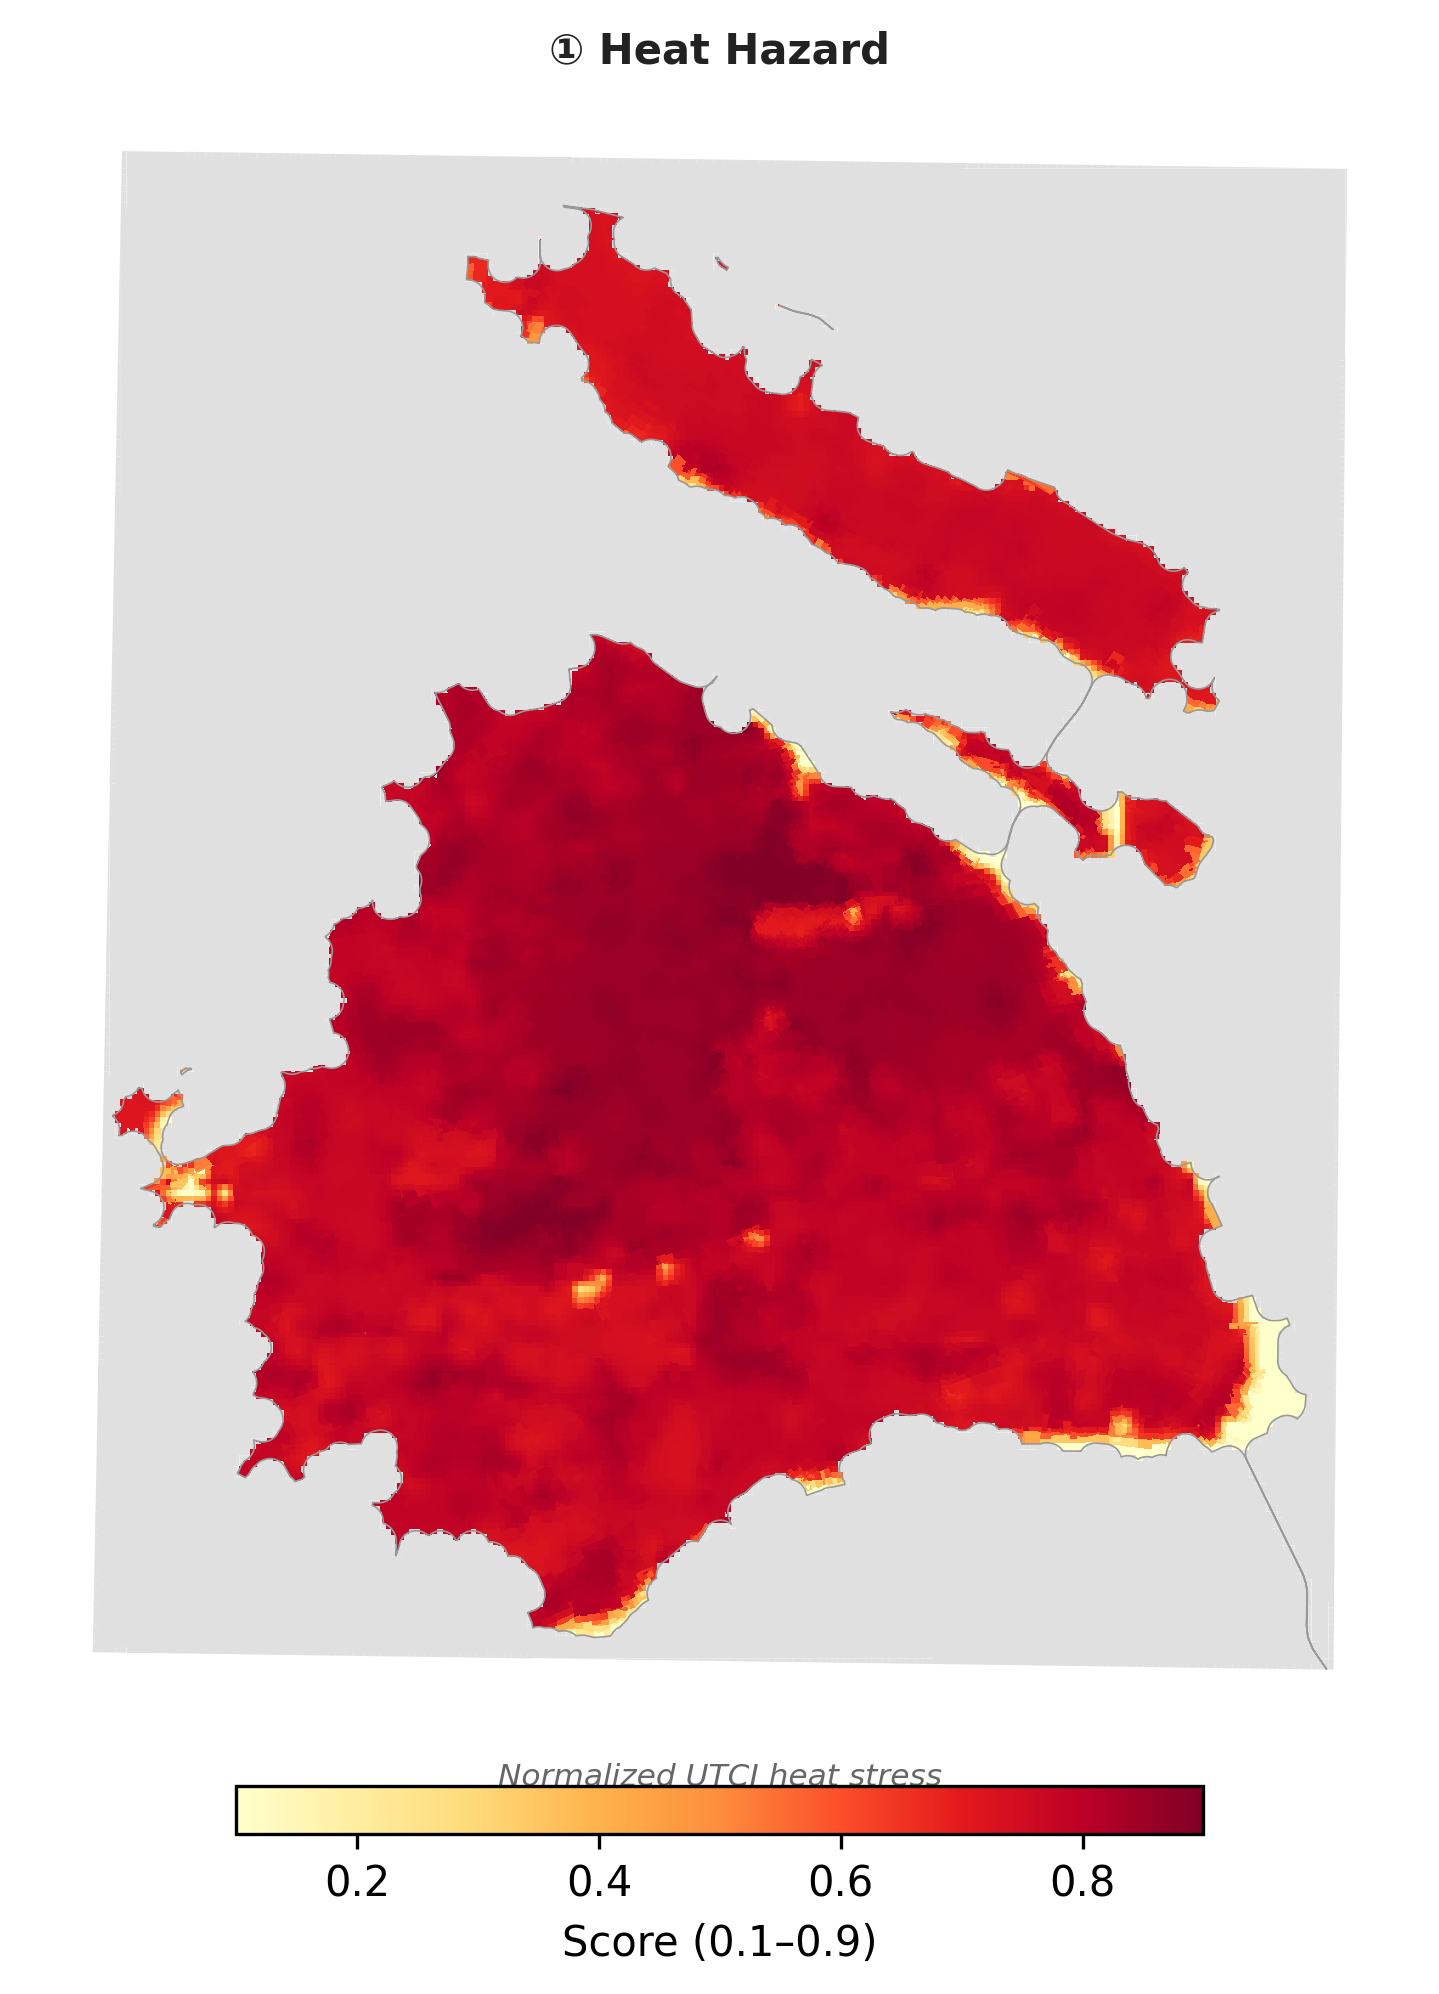
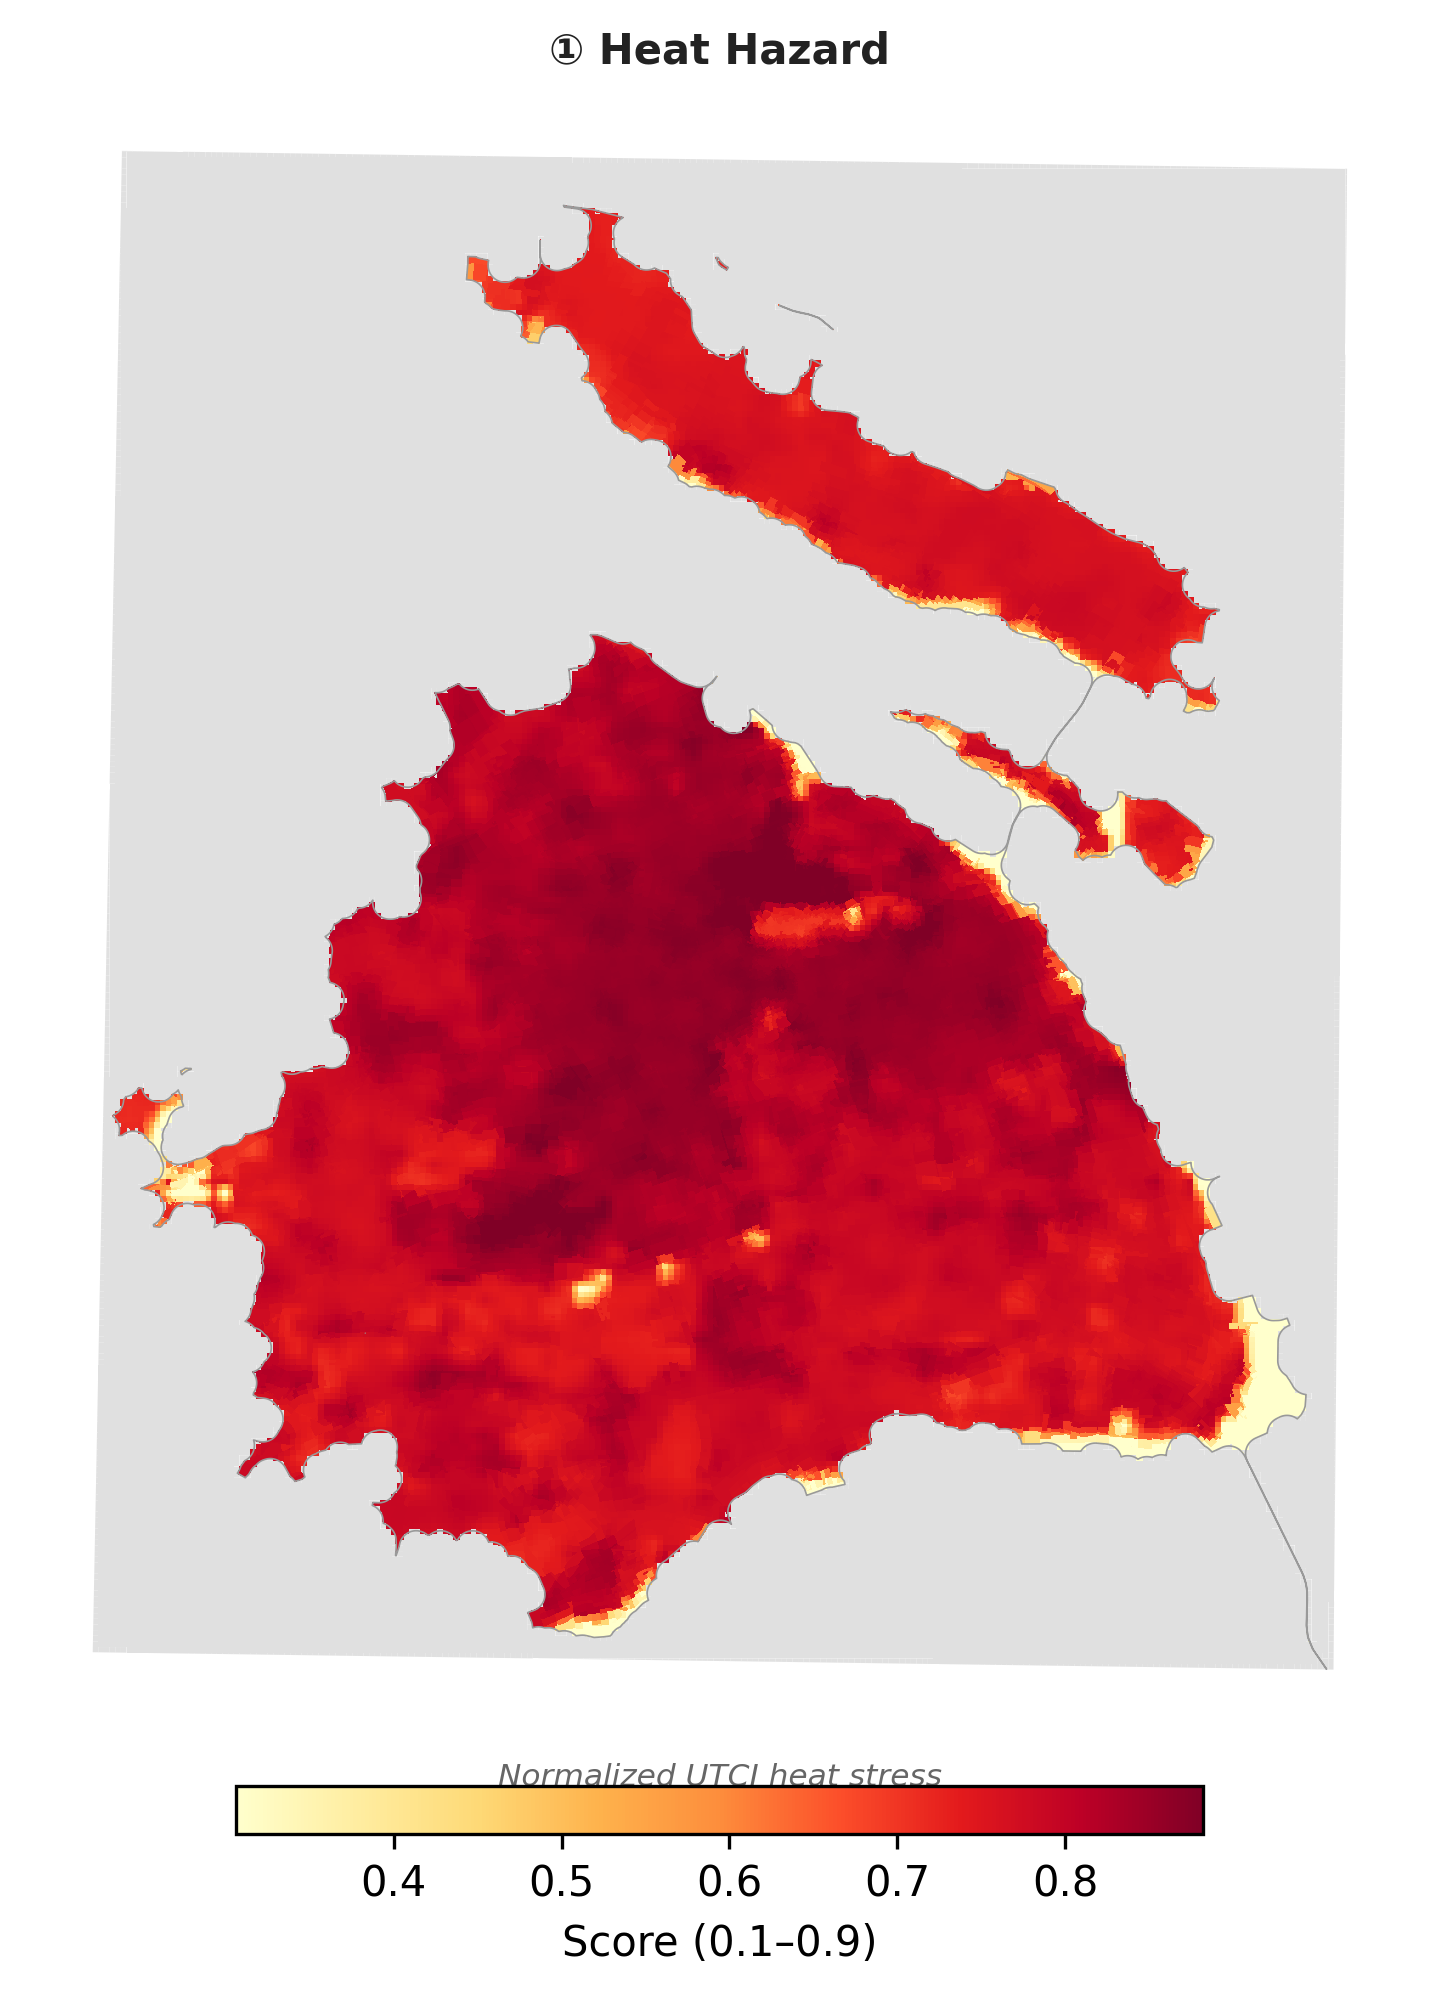
WIP: restore gradient richness — contrast-stretch scales to displayed 2-98 pct

diff --git a/scripts/10_infographic.py b/scripts/10_infographic.py
@@ -182,11 +182,15 @@ def render_map(ax, gdf, gdf_all, key, legend=True):
         col = "_rank"
         vmin, vmax = 0.0, 100.0
     else:
-        # Scale still anchored on the road blocks so panel scales match
-        # the earlier versions; grid blocks just extend the coverage.
-        vmax = resolve_vmax(gdf, col, vmax_spec)
-        if vmin == "sym":
-            vmin = -vmax
+        # Contrast-stretch to the 2–98 percentile of the DISPLAYED blocks.
+        # Rural grid values bunch at one end of each index; a fixed scale
+        # renders the filled map as a flat single-colour mass. Stretching
+        # to the displayed distribution restores the original gradient.
+        vmin = float(plot_gdf[col].quantile(0.02))
+        vmax = float(plot_gdf[col].quantile(0.98))
+        if vmax <= vmin:  # degenerate distribution — fall back to spec
+            vmax = resolve_vmax(gdf, col, vmax_spec)
+            vmin = 0.1
 
     gdf_all.plot(ax=ax, color="#E0E0E0", edgecolor="none", linewidth=0)
     plot_gdf.plot(
